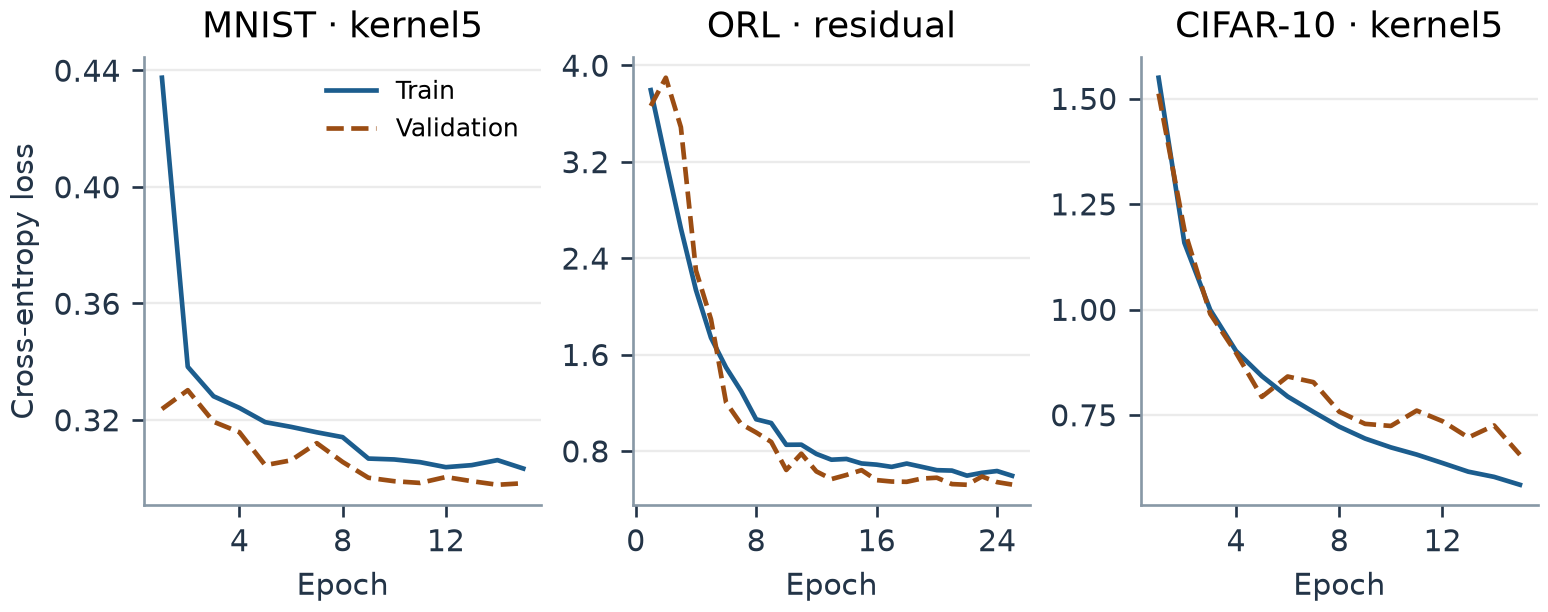
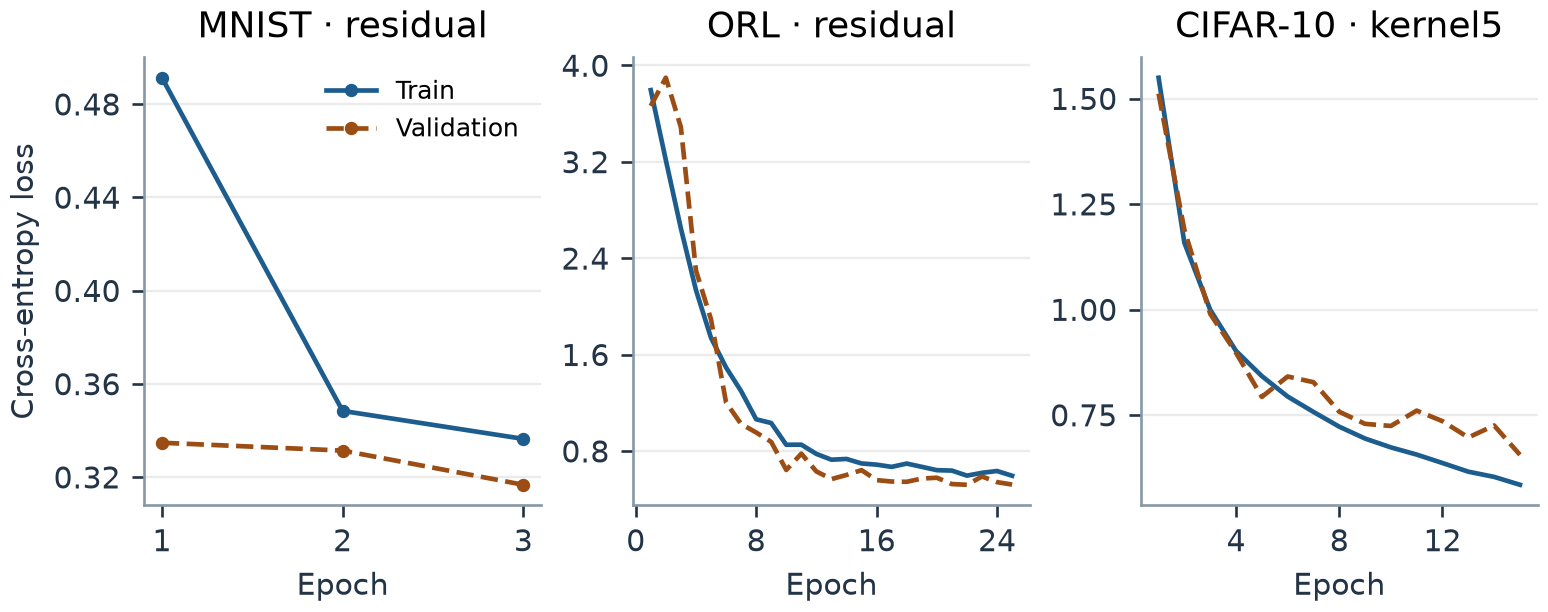
Train all MNIST configurations on the instructor archive

diff --git a/report_figures/stage3/README.md b/report_figures/stage3/README.md
@@ -2,7 +2,7 @@
 
 | Dataset | Selected model | Test images | Accuracy | Macro precision | Macro recall | Macro F1 |
 | --- | --- | ---: | ---: | ---: | ---: | ---: |
-| [MNIST](mnist/experiment_summary.json) | Kernel 5×5 residual | 10,000 | 99.60% | 99.60% | 99.59% | 99.60% |
+| [MNIST](mnist/experiment_summary.json) | Kernel 3×3 residual | 10,000 | 99.33% | 99.34% | 99.33% | 99.33% |
 | [ORL](orl/experiment_summary.json) | Kernel 3×3 residual | 40 | 97.50% | 96.25% | 97.50% | 96.67% |
 | [CIFAR-10](cifar10/experiment_summary.json) | Kernel 5×5 residual | 10,000 | 84.95% | 85.12% | 84.95% | 84.88% |
 
@@ -10,7 +10,9 @@
 
 The ORL experiment used the instructor ZIP and the [template entry point](../../script/stage_3_script/script_cnn_orl.py). A stratified split allocated 270 training images to model fitting and 90 to validation. The instructor's 40 test images were held out. The two residual variants tied on validation macro F1, so the 3×3 variant, which was listed first, was selected.
 
-MNIST and CIFAR-10 were trained earlier using the [standalone entry point](../../script/stage3/run_stage3.py) with 15 epochs, batch size 128, seed 42, and the cached torchvision datasets. Both cached datasets matched the supplied ZIP in pixel values, labels, and record order for both partitions. I scored the saved checkpoints again through the template loader on the instructor ZIP. Validation and held-out metrics matched the recorded runs for [MNIST](mnist/checkpoint_verification.json) and [CIFAR-10](cifar10/checkpoint_verification.json).
+MNIST was trained directly on the instructor ZIP using the [template entry point](../../script/stage_3_script/script_cnn_mnist.py). All three configurations trained for three epochs on the same stratified split of 54,000 fit images and 6,000 validation images. The instructor's 10,000 test images were held out and used to score the selected configuration.
+
+CIFAR-10 was trained using the [standalone entry point](../../script/stage3/run_stage3.py) with 15 epochs, batch size 128, seed 42, and cached torchvision data. The cached images, labels and record order matched the supplied ZIP for both partitions. The saved checkpoint reproduced its validation and test metrics through the template loader on the instructor ZIP. [CIFAR-10 verification](cifar10/checkpoint_verification.json)
 
 Every experiment selected checkpoints and architectures on validation data. The linked summaries include validation ablations, hyperparameters, split counts, and the course archive SHA-256. Each dataset directory also includes epoch loss histories for all three configurations.
 

diff --git a/README_OFFICIAL_TEMPLATE.md b/README_OFFICIAL_TEMPLATE.md
@@ -11,7 +11,7 @@ python -m pip install -r requirements-cnn.txt
 $dataset = 'C:\path\to\stage_3_data.zip'
 $env:OMP_NUM_THREADS = '8'
 python script/stage_3_script/script_cnn_cifar.py --source local --data-root $dataset --epochs 15
-python script/stage_3_script/script_cnn_mnist.py --source local --data-root $dataset --epochs 15
+python script/stage_3_script/script_cnn_mnist.py --source local --data-root $dataset --epochs 3
 $env:OMP_NUM_THREADS = '6'
 python script/stage_3_script/script_cnn_orl.py --source local --data-root $dataset --epochs 25 --batch-size 32 --patience 7
 ```
@@ -43,7 +43,7 @@ Models train from random initialization with AdamW, learning rate 0.001, weight 
 
 Full runs write `result/stage_3_result/<dataset>/full/`. Each directory contains train and validation loss histories, validation ablations, held-out accuracy and macro precision, recall and F1, an architecture diagram, a confusion matrix, and the selected checkpoint. The course ZIP and local artifacts are excluded from Git.
 
-The [reported experiments](report_figures/stage3/README.md) include the template-based ORL run and the earlier 15-epoch MNIST and CIFAR-10 runs. Their supplied and cached images, labels, and split ordering matched exactly. The saved MNIST and CIFAR-10 checkpoints reproduced their validation and test metrics when rescored through the template loader on the course ZIP.
+The [reported experiments](report_figures/stage3/README.md) include template-based MNIST and ORL runs trained directly on the instructor archive. The earlier CIFAR-10 run used an exact matching copy of the dataset. Its saved checkpoint reproduced its validation and test metrics when rescored through the template loader on the course ZIP.
 
 ```powershell
 python -m unittest discover -s tests -p 'test_stage3.py'
